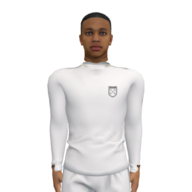
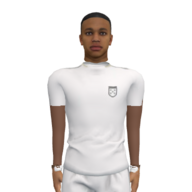
Manga corta por defecto y elección de manga y talla en la Taquilla
- Camisetas en manga corta: brazos generados a la medida de la manga en Dani, Leo y Nico; piel pintada en los personajes de una pieza
- Taquilla: MANGA (corta/larga) y TALLA (S/M/L/XL), guardado en arenamix.fit.v1 y aplicado a tu personaje
- Retratos regenerados

Claude-Session: https://claude.ai/code/session_017Zx2H8d6dd2Bde9S1DSPYC

Changed region(s): [[0.625, 0.5312, 0.75, 0.875], [0.25, 0.5312, 0.375, 0.875]]

diff --git a/arenamix/chars.js b/arenamix/chars.js
@@ -151,6 +151,94 @@
       root.updateMatrixWorld(true);
       prepKit(root, t.box);
     });
+    ['dani', 'leo', 'nico'].forEach(addArms);
+  }
+  /* ---------- sleeves and size (Taquilla) ---------- */
+  var FIT_KEY = 'arenamix.fit.v1', FIT_DEF = { sleeve: 'short', size: 'M' };
+  // how much the shirt and shorts are let out, in metres
+  var SIZES = { S: -0.0025, M: 0, L: 0.012, XL: 0.026 };
+  function fitPref() {
+    try { var v = JSON.parse(localStorage.getItem(FIT_KEY) || 'null'); if (v) return { sleeve: v.sleeve === 'long' ? 'long' : 'short', size: SIZES[v.size] != null ? v.size : 'M' }; } catch (e) {}
+    return { sleeve: FIT_DEF.sleeve, size: FIT_DEF.size };
+  }
+  function setFit(f) { try { localStorage.setItem(FIT_KEY, JSON.stringify(fitPref() && Object.assign(fitPref(), f))); } catch (e) {} }
+  // skin tone of the arms bared by short sleeves
+  var SKIN = { ty: '#F6CBAA', vegas: '#F0C29C', granny: '#BFD3C6', dani: '#C99A7E', leo: '#D9AE93', nico: '#5E3E2E', remy: '#D2A88A' };
+  /* models with nothing under the shirt get arms: a tube along the arm bones, as thick as the sleeve
+     around it, skinned to the shoulder, elbow and wrist */
+  function addArms(id) {
+    var t = tpl[id]; if (!t) return;
+    var shirt = null; t.root.traverse(function (m) { if (m.isSkinnedMesh && /Shirt$/.test(m.name)) shirt = m; });
+    if (!shirt) return;
+    t.root.updateMatrixWorld(true);
+    var by = {}; t.root.traverse(function (b) { if (b.isBone && !by[b.name]) by[b.name] = b; });
+    var sp = []; var pos = shirt.geometry.attributes.position, v = new T.Vector3();
+    for (var i = 0; i < pos.count; i += 1) { v.fromBufferAttribute(pos, i); shirt.boneTransform(i, v); v.applyMatrix4(shirt.matrixWorld); sp.push(v.clone()); }
+    var mat = new T.MeshStandardMaterial({ color: new T.Color(SKIN[id] || '#D9AE93').convertSRGBToLinear(), roughness: 0.62, metalness: 0 });
+    mat.skinning = true;
+    var inv = new T.Matrix4().copy(shirt.matrixWorld).invert(), H = t.box.max.y - t.box.min.y;
+    ['Left', 'Right'].forEach(function (side) {
+      var bA = by['mixamorig' + side + 'Arm'], bF = by['mixamorig' + side + 'ForeArm'], bH = by['mixamorig' + side + 'Hand'];
+      if (!bA || !bF || !bH) return;
+      var pA = new T.Vector3().setFromMatrixPosition(bA.matrixWorld), pF = new T.Vector3().setFromMatrixPosition(bF.matrixWorld), pH = new T.Vector3().setFromMatrixPosition(bH.matrixWorld);
+      var at = function (u) { return u <= 1 ? pA.clone().lerp(pF, u) : pF.clone().lerp(pH, u - 1); };
+      var dirAt = function (u) { return (u <= 1 ? pF.clone().sub(pA) : pH.clone().sub(pF)).normalize(); };
+      // sleeve radius along the arm (bins of u), from the shirt vertices around it
+      var NB = 20, rs = [], i2, b;
+      for (b = 0; b < NB; b++) rs.push([]);
+      sp.forEach(function (q) {
+        var best = null;
+        [[pA, pF, 0], [pF, pH, 1]].forEach(function (sg) {
+          var d = sg[1].clone().sub(sg[0]), L2 = d.lengthSq(), tt = q.clone().sub(sg[0]).dot(d) / L2;
+          if (tt < 0 || tt > 1) return;
+          var dist = q.distanceTo(sg[0].clone().addScaledVector(d, tt));
+          if (!best || dist < best.d) best = { d: dist, u: sg[2] + tt };
+        });
+        if (best && best.d < H * 0.07) rs[Math.min(NB - 1, Math.floor(best.u / 2 * NB))].push(best.d);
+      });
+      var rad = rs.map(function (a) { if (!a.length) return null; a.sort(function (x, y) { return x - y; }); return a[Math.floor(a.length * 0.35)]; });
+      var radAt = function (u) {
+        var k = Math.max(0, Math.min(NB - 1, Math.floor(u / 2 * NB))), r = rad[k];
+        for (var j = 1; r == null && j < NB; j++) r = rad[Math.max(0, k - j)] || rad[Math.min(NB - 1, k + j)];
+        // a little inside the sleeve, tapering to the wrist
+        var lim = H * (u < 1 ? 0.034 - 0.008 * u : 0.026 - 0.008 * (u - 1));
+        return Math.min(r != null ? r * 0.82 : lim, lim);
+      };
+      var RING = 14, us = [], u0 = 0.3, u1 = 1.97;
+      for (var s2 = 0; s2 <= 22; s2++) us.push(u0 + (u1 - u0) * s2 / 22);
+      var P = [], SI = [], SW = [], IDX = [], ref = new T.Vector3(0, 0, 1);
+      var rad0 = us.map(radAt);
+      // smooth the radii
+      var rsm = rad0.map(function (r, k) { return (rad0[Math.max(0, k - 1)] + r * 2 + rad0[Math.min(rad0.length - 1, k + 1)]) / 4; });
+      us.forEach(function (u, k) {
+        var c = at(u), d = dirAt(u), x = new T.Vector3().crossVectors(d, ref); if (x.lengthSq() < 1e-6) x.set(1, 0, 0); x.normalize();
+        var y = new T.Vector3().crossVectors(d, x).normalize();
+        for (var r = 0; r < RING; r++) {
+          var a = r / RING * Math.PI * 2, p2 = c.clone().addScaledVector(x, Math.cos(a) * rsm[k]).addScaledVector(y, Math.sin(a) * rsm[k] * 0.92).applyMatrix4(inv);
+          P.push(p2.x, p2.y, p2.z);
+          // weights: shoulder bone, blended over the elbow, then the forearm (and the hand at the end)
+          var wF = Math.max(0, Math.min(1, (u - 0.85) / 0.3)), wH = Math.max(0, Math.min(1, (u - 1.85) / 0.12));
+          SI.push(0, 1, 2, 0); SW.push(1 - wF, wF * (1 - wH), wF * wH, 0);
+        }
+      });
+      for (var k2 = 0; k2 < us.length - 1; k2++) for (var r2 = 0; r2 < RING; r2++) {
+        var a0 = k2 * RING + r2, a1 = k2 * RING + (r2 + 1) % RING, b0 = a0 + RING, b1 = a1 + RING;
+        IDX.push(a0, b0, a1, a1, b0, b1);
+      }
+      var geo = new T.BufferGeometry();
+      geo.setAttribute('position', new T.Float32BufferAttribute(P, 3));
+      geo.setAttribute('skinIndex', new T.Uint16BufferAttribute(SI, 4));
+      geo.setAttribute('skinWeight', new T.Float32BufferAttribute(SW, 4));
+      geo.setIndex(IDX); geo.computeVertexNormals();
+      // the winding may face inwards depending on the side: flip so normals point out
+      var c0 = at(1), n0 = new T.Vector3().fromBufferAttribute(geo.attributes.normal, 11 * RING), p0 = new T.Vector3().fromBufferAttribute(geo.attributes.position, 11 * RING).applyMatrix4(shirt.matrixWorld);
+      if (n0.transformDirection(shirt.matrixWorld).dot(p0.sub(c0)) < 0) { for (var f = 0; f < IDX.length; f += 3) { var tmp = IDX[f + 1]; IDX[f + 1] = IDX[f + 2]; IDX[f + 2] = tmp; } geo.setIndex(IDX); geo.computeVertexNormals(); }
+      var mesh = new T.SkinnedMesh(geo, mat);
+      mesh.name = side + 'Arm_Body'; mesh.castShadow = true; mesh.frustumCulled = false; mesh.userData.bareArms = true;
+      mesh.position.copy(shirt.position); mesh.quaternion.copy(shirt.quaternion); mesh.scale.copy(shirt.scale);
+      shirt.parent.add(mesh); mesh.updateMatrixWorld(true);
+      mesh.bind(new T.Skeleton([bA, bF, bH]), mesh.matrixWorld.clone());
+    });
   }
   // the cartoon models are one piece: their clothes are painted as a kit when no outfit is given
   var PAINT = { ty: 1, vegas: 1, granny: 1 };
@@ -182,7 +270,19 @@
       if (Array.isArray(mt) || mt.transparent || !mt.map) return;
       var geo = m.geometry, pos = geo.attributes.position, si = geo.attributes.skinIndex, sw = geo.attributes.skinWeight, uv = geo.attributes.uv;
       if (!si || !sw) return;
-      var n = pos.count, kit = new Float32Array(n * 3), names = m.skeleton.bones.map(function (b) { return b.name; });
+      var n = pos.count, kit = new Float32Array(n * 3), arm = new Float32Array(n), names = m.skeleton.bones.map(function (b) { return b.name; });
+      // where each bone sits at rest, for the sleeve coordinate (0 shoulder .. 1 elbow .. 2 wrist)
+      var bwp = {}; m.skeleton.bones.forEach(function (b) { bwp[b.name] = new T.Vector3().setFromMatrixPosition(b.matrixWorld); });
+      var armAt = function (bn, p) {
+        var mm = /^(mixamorig)?(Left|Right)(Arm|ForeArm|Hand)/.exec(bn); if (!mm) return -1;
+        var pre = (mm[1] || '') + mm[2];
+        if (mm[3] !== 'Arm' && mm[3] !== 'ForeArm') return 2;
+        var a = bwp[pre + mm[3]], b = bwp[pre + (mm[3] === 'Arm' ? 'ForeArm' : 'Hand')];
+        if (!a || !b) return mm[3] === 'Arm' ? 0.5 : 1.5;
+        var dx = b.x - a.x, dy = b.y - a.y, dz = b.z - a.z, L2 = dx * dx + dy * dy + dz * dz || 1;
+        var t = Math.max(0, Math.min(1, ((p.x - a.x) * dx + (p.y - a.y) * dy + (p.z - a.z) * dz) / L2));
+        return (mm[3] === 'Arm' ? 0 : 1) + t;
+      };
       // texture pixels, to know each zone's average brightness (the recolour keeps relative shading)
       var px = null, W = 128, Hh = 128;
       try {
@@ -196,6 +296,7 @@
         var z = zoneOf(names[best] || '');
         v.fromBufferAttribute(pos, i).applyMatrix4(m.matrixWorld);
         kit[i * 3] = z; kit[i * 3 + 1] = (v.x - cx) / H; kit[i * 3 + 2] = (v.y - box.min.y) / H;
+        arm[i] = z === 1 ? armAt(names[best] || '', v) : -1;
         if (px && uv && z) {
           var u = uv.getX(i), w2 = uv.getY(i);
           u -= Math.floor(u); w2 -= Math.floor(w2);
@@ -206,6 +307,12 @@
         }
       }
       geo.setAttribute('aKit', new T.Float32BufferAttribute(kit, 3));
+      geo.setAttribute('aArm', new T.Float32BufferAttribute(arm, 1));
+      // model units per metre (the kit is let out or taken in by a few centimetres)
+      var ws = new T.Vector3(); m.getWorldScale(ws);
+      m.userData.unit = (H / HEIGHT) / (ws.x || 1);
+      // a separate shirt (a body under it) is cut short; a one-piece model is painted skin instead
+      m.userData.sleeveCut = /shirt|tops/i.test(m.name) ? 1 : 0;
       var lum = [1, 1, 1, 1, 1].map(function (d, z) { return cnt[z] ? Math.max(0.02, sum[z] / cnt[z]) : 0.2; });
       m.userData.kitLum = [lum[1], lum[2], lum[3], lum[4]];
       m.userData.kitable = true;
@@ -277,22 +384,24 @@
     if (c == null) return new T.Color(fb);
     return (c.isColor ? c.clone() : new T.Color(c)).convertSRGBToLinear();
   }
-  function kitMaterial(base, kit, lum, keepSkin) {
+  function kitMaterial(base, kit, lum, keepSkin, fit, unit, sleeveCut, skin) {
     var m = base.clone();
     var U = {
       uKitA: { value: col(kit.primary, '#ffffff') }, uKitB: { value: col(kit.secondary, '#141B2D') },
       uShorts: { value: col(kit.shorts, '#141B2D') }, uSocks: { value: col(kit.socks, '#ffffff') }, uShoes: { value: col(kit.shoe, '#F2F5FA') },
-      uPat: { value: PAT[kit.pattern] || 0 }, uLum: { value: lum }, uKeepSkin: { value: keepSkin || 0 }
+      uPat: { value: PAT[kit.pattern] || 0 }, uLum: { value: lum }, uKeepSkin: { value: keepSkin || 0 },
+      uPaint: { value: kit.none ? 0 : 1 }, uInflate: { value: (fit && fit.inflate || 0) * (unit || 1) },
+      uSleeve: { value: fit && fit.sleeve === 'long' ? 0 : (sleeveCut ? 1 : 2) }, uSkin: { value: col(skin, '#E8B896') }
     };
     m.onBeforeCompile = function (sh) {
       Object.keys(U).forEach(function (k) { sh.uniforms[k] = U[k]; });
       sh.vertexShader = sh.vertexShader
-        .replace('#include <common>', '#include <common>\nattribute vec3 aKit;\nvarying vec4 vZone;\nvarying vec2 vKitP;')
-        .replace('#include <begin_vertex>', '#include <begin_vertex>\nvZone = vec4(step(0.5, aKit.x) * step(aKit.x, 1.5), step(1.5, aKit.x) * step(aKit.x, 2.5), step(2.5, aKit.x) * step(aKit.x, 3.5), step(3.5, aKit.x));\nvKitP = aKit.yz;');
+        .replace('#include <common>', '#include <common>\nattribute vec3 aKit;\nattribute float aArm;\nvarying vec4 vZone;\nvarying vec2 vKitP;\nvarying float vArm;\nuniform float uInflate;')
+        .replace('#include <begin_vertex>', '#include <begin_vertex>\nvArm = aArm;\ntransformed += objectNormal * uInflate * (step(0.5, aKit.x) * step(aKit.x, 2.5));\nvZone = vec4(step(0.5, aKit.x) * step(aKit.x, 1.5), step(1.5, aKit.x) * step(aKit.x, 2.5), step(2.5, aKit.x) * step(aKit.x, 3.5), step(3.5, aKit.x));\nvKitP = aKit.yz;');
       sh.fragmentShader = sh.fragmentShader
         .replace('#include <common>', ['#include <common>', 'varying vec4 vZone;', 'varying vec2 vKitP;',
           'uniform vec3 uKitA; uniform vec3 uKitB; uniform vec3 uShorts; uniform vec3 uSocks; uniform vec3 uShoes;',
-          'uniform float uPat; uniform vec4 uLum; uniform float uKeepSkin;',
+          'uniform float uPat; uniform vec4 uLum; uniform float uKeepSkin; uniform float uPaint; uniform float uSleeve; uniform vec3 uSkin;', 'varying float vArm;',
           'float kitPattern(vec2 p) {',
           '  if (uPat < 0.5) return 0.0;',
           '  if (uPat < 1.5) return step(0.5, fract(p.x * 14.0 + 0.25));',
@@ -305,6 +414,9 @@
           '  return step(abs(p.y - 0.66), 0.03);',
           '}'].join('\n'))
         .replace('#include <map_fragment>', ['#include <map_fragment>',
+          // short sleeves end halfway down the upper arm
+          'float bare = step(0.5, uSleeve) * step(0.55, vArm) * step(vArm, 1.98);',
+          'if (bare > 0.5 && uSleeve < 1.5) discard;',
           '{',
           '  vec3 c = diffuseColor.rgb, sc = pow(max(c, vec3(0.0)), vec3(1.0 / 2.2));',
           '  float lum = dot(c, vec3(0.2126, 0.7152, 0.0722));',
@@ -314,10 +426,11 @@
           '  vec3 kitC = shirt * vZone.x + uShorts * vZone.y + uSocks * vZone.z + uShoes * vZone.w;',
           '  float w = clamp(vZone.x * (1.0 - skin) + vZone.y + vZone.z + vZone.w, 0.0, 1.0);',
           '  vec3 painted = kitC * clamp(lum / zl, 0.35, 1.6);',
-          '  diffuseColor.rgb = mix(c, painted, w);',
+          '  diffuseColor.rgb = mix(c, painted, w * uPaint);',
+          '  if (bare > 0.5) diffuseColor.rgb = uSkin * clamp(lum / max(zl, 0.0001), 0.55, 1.25);',
           '}'].join('\n'));
     };
-    m.customProgramCacheKey = function () { return 'amkit1'; };
+    m.customProgramCacheKey = function () { return 'amkit2'; };
     return m;
   }
   // the outfit equipped in Taquilla for a sport (null if none saved yet)
@@ -389,7 +502,13 @@
     var kit = o.kit || (o.you && !o.noOutfit ? outfit(o.sport) : null);
     if (!kit && o.shirt != null) kit = { primary: o.shirt, secondary: o.trimCss, pattern: 'solid', shorts: o.shorts, socks: o.socks, shoe: o.boot };
     if (!kit && PAINT[id]) kit = HOME_KIT;
-    if (kit) model.traverse(function (m) { if (m.isSkinnedMesh && m.userData.kitable) m.material = kitMaterial(m.material, kit, new T.Vector4().fromArray(m.userData.kitLum), m.userData.keepSkin); });
+    // sleeves and size: yours from Taquilla, everyone else in short sleeves and their own size
+    var fit = o.fit || ((o.you || o.gear) ? fitPref() : FIT_DEF), fz = SIZES[fit.size] != null ? SIZES[fit.size] : 0;
+    var fk = { sleeve: fit.sleeve, inflate: fz }, short = fit.sleeve !== 'long';
+    model.traverse(function (m) {
+      if (m.isSkinnedMesh && m.userData.kitable) m.material = kitMaterial(m.material, kit || { none: 1 }, new T.Vector4().fromArray(m.userData.kitLum), m.userData.keepSkin, fk, m.userData.unit, m.userData.sleeveCut, SKIN[id]);
+      if (m.userData.bareArms) m.visible = short;
+    });
     var gear = [];
     // the accessories only go on your own character, not on teammates who share the kit
     if (kit && (o.you || o.gear) && !o.noGear) dress(id, kit, g, s, holder.position, function (obj) { gear.push(obj); });
@@ -559,5 +678,5 @@
     return g;
   }
 
-  window.AMChars = { list: LIST, pref: pref, setPref: setPref, load: load, ready: ready, onReady: onReady, make: make, clip: clipInfo, outfit: outfit };
+  window.AMChars = { fitPref: fitPref, setFit: setFit, sizes: Object.keys(SIZES), list: LIST, pref: pref, setPref: setPref, load: load, ready: ready, onReady: onReady, make: make, clip: clipInfo, outfit: outfit };
 })();

diff --git a/arenamix/screens/Taquilla.dc.html b/arenamix/screens/Taquilla.dc.html
@@ -86,6 +86,20 @@ input::placeholder{color:#8686A6}
     </div>
   </div>
 
+  <!-- the fit: sleeves and size -->
+  <div role="group" aria-label="Corte" style="position: absolute; left: 388px; top: 112px; width: 70px; display: flex; flex-direction: column; gap: 5px; padding: 7px 6px; box-sizing: border-box; border-radius: 12px; background: #0B0B14CC; border: 1px solid #2E2E58; z-index: 2">
+    <span style="font-size: 9px; font-weight: 800; letter-spacing: 1.5px; color: #22D3EE; text-align: center">MANGA</span>
+    <sc-for list="{{sleeveBtns}}" as="sb" hint-placeholder-count="2">
+      <button type="button" aria-pressed="{{sb.on}}" onClick="{{sb.pick}}" style="{{sb.style}}">{{sb.label}}</button>
+    </sc-for>
+    <span style="margin-top: 3px; font-size: 9px; font-weight: 800; letter-spacing: 1.5px; color: #22D3EE; text-align: center">TALLA</span>
+    <div style="display: grid; grid-template-columns: 1fr 1fr; gap: 4px">
+      <sc-for list="{{sizeBtns}}" as="zb" hint-placeholder-count="4">
+        <button type="button" aria-pressed="{{zb.on}}" onClick="{{zb.pick}}" style="{{zb.style}}">{{zb.label}}</button>
+      </sc-for>
+    </div>
+  </div>
+
   <!-- the rail: categories, leagues, the clothes on hangers, and the action -->
   <div style="position: absolute; left: 462px; top: 0; right: 0; bottom: 0; border-radius: 24px 0 0 24px; background: linear-gradient(160deg, #191936F2, #0E0E1EF2)"></div>
   <div style="position: absolute; left: 462px; top: 24px; width: 4px; bottom: 24px; border-radius: 2px; background: linear-gradient(180deg, #22D3EE, #7C5CFF); box-shadow: 0 0 12px #22D3EE"></div>
@@ -225,7 +239,7 @@ class Component extends DCLogic {
     if (!w || !h) return;
     if (V.sz !== w + 'x' + h) { V.sz = w + 'x' + h; R.setSize(w, h, false); this.cam.aspect = w / h; this.cam.updateProjectionMatrix(); }
     // rebuild the character when the character or the outfit being looked at changes (kept between visits)
-    const key = this.want.char + '|' + JSON.stringify(this.want.kit);
+    const key = this.want.char + '|' + JSON.stringify(this.want.kit) + '|' + JSON.stringify(A.fitPref ? A.fitPref() : {});
     if (key !== V.modelKey && A.ready()) {
       if (V.model) V.S.remove(V.model);
       V.model = A.make({ char: this.want.char, kit: this.want.kit, noRing: true, gear: true });
@@ -630,7 +644,13 @@ class Component extends DCLogic {
         textStyle: c.id === 'clasico' ? 'font: 800 8px Exo2, sans-serif; color: #F4F4FA;' : 'display: none;'
       };
     });
+    const A2 = window.AMChars, fitNow = A2 && A2.fitPref ? A2.fitPref() : { sleeve: 'short', size: 'M' };
+    const fitBtn = (on) => 'height: 26px; padding: 0; border-radius: 8px; font: 800 11px Exo2, sans-serif; cursor: pointer; ' + (on ? 'background: #22D3EE; color: #0B0B14; border: 0; box-shadow: 0 2px 0 #0E8FA3;' : 'background: #17172A; color: #CACAE0; border: 1px solid #2E2E52;');
+    const setFit = (f) => { if (A2 && A2.setFit) { A2.setFit(f); window.AMSfx && window.AMSfx.tap && window.AMSfx.tap(); this.forceUpdate(); } };
+    const sleeveBtns = [['short', 'CORTA'], ['long', 'LARGA']].map(([id, label]) => ({ label, on: String(fitNow.sleeve === id), style: fitBtn(fitNow.sleeve === id), pick: () => setFit({ sleeve: id }) }));
+    const sizeBtns = (A2 && A2.sizes || ['S', 'M', 'L', 'XL']).map((id) => ({ label: id, on: String(fitNow.size === id), style: fitBtn(fitNow.size === id), pick: () => setFit({ size: id }) }));
     return {
+      sleeveBtns, sizeBtns,
       show3d, show2d: !show3d, charChips, canvasRef: this.canvasRef,
       viewerLabel: 'Tu personaje con la equipación ' + kitItem.name + '. Desliza para girarlo.',
       pDown: (e) => { e.preventDefault(); try { e.currentTarget.setPointerCapture(e.pointerId); } catch (er) {} this.drag = { id: e.pointerId, x: e.clientX, t: performance.now() }; this.spin = 0; },

diff --git a/arenamix/i18n-en.js b/arenamix/i18n-en.js
@@ -425,7 +425,7 @@ window.AM_I18N_EN = {
   'VESTUARIO · FÚTBOL': 'LOCKER ROOM · FOOTBALL', 'EQUIPOS': 'KITS', 'CABEZA': 'HEAD', 'CARA': 'FACE', 'CALZADO': 'BOOTS', 'EQUIPACIÓN': 'KIT', 'ACCESORIO': 'ACCESSORY', 'COFRE': 'CHEST',
   'Liga España': 'Spanish League', 'Liga Inglaterra': 'English League', 'Liga Italia': 'Italian League', 'Liga Alemania': 'German League', 'Liga Francia': 'French League',
   'Liga Turquía': 'Turkish League', 'Liga Japón': 'Japanese League', 'Liga Brasil': 'Brazilian League', 'Liga Polonia': 'Polish League', 'Liga Europa': 'European League', 'Liga Norteamérica': 'North American League',
-  'Equipado': 'Equipped', 'En propiedad': 'Owned', 'Lo llevas puesto': 'You’re wearing it', 'Puesto': 'On', 'EQUIPAR': 'EQUIP', 'PROBÁNDOTELO': 'TRYING IT ON', 'CÓMO CONSEGUIRLO': 'HOW TO GET IT',
+  'Equipado': 'Equipped', 'En propiedad': 'Owned', 'Lo llevas puesto': 'You’re wearing it', 'Puesto': 'On', 'EQUIPAR': 'EQUIP', 'PROBÁNDOTELO': 'TRYING IT ON', 'MANGA': 'SLEEVES', 'CORTA': 'SHORT', 'LARGA': 'LONG', 'TALLA': 'SIZE', 'CÓMO CONSEGUIRLO': 'HOW TO GET IT',
   'DESLIZA PARA GIRAR': 'SWIPE TO TURN', 'Clásico': 'Classic', 'En tu taquilla': 'In your locker', 'Disponible por VCD': 'Available for VCD', 'Objeto premium': 'Premium item', 'Te faltan VCD': 'Not enough VCD',
   'Pase nv. #': 'Pass lv. #', 'Premium nv. #': 'Premium lv. #',
   // cosmetics

diff --git a/arenamix/sw.js b/arenamix/sw.js
@@ -1,5 +1,5 @@
 /* Network-first so every update you publish reaches the phone; cache is the offline fallback. */
-const CACHE = 'arenamix-v177';
+const CACHE = 'arenamix-v178';
 const CORE = ['./', 'index.html', 'app.js', 'manifest.webmanifest', 'vendor/preact.min.js', 'vendor/three.min.js', 'vendor/GLTFLoader.js', 'vendor/SkeletonUtils.js', 'chars.js', 'gear.js', 'posters.js', 'hero.js', 'progress.js', 'results.js', 'sfx.js', 'online.js', 'social.js', 'vendor/peerjs.min.js', 'grass.js', 'sky.js', 'ball.js', 'vendor/RGBELoader.js', 'stadium.js', 'music.js', 'ui-fx.js', 'juice.js', 'i18n.js', 'i18n-en.js', 'assets/stadium/stadium.glb', 'assets/stadium/seats.json', 'assets/stadium/goal.glb', 'assets/sky/stadium_bg.jpg', 'assets/sky/stadium_env.hdr', 'assets/grass/color.jpg', 'assets/grass/normal.jpg', 'assets/grass/rough.jpg', 'assets/chars/ty.glb', 'assets/chars/vegas.glb', 'assets/chars/granny.glb', 'assets/chars/anims.json', 'icons/icon-192.png', 'icons/loading-bg.jpg', 'assets/lobby_bg.jpg', 'assets/grain.png', 'vendor/fonts/luckiestguy-latin.woff2', 'vendor/fonts/lilitaone-latin.woff2', 'vendor/fonts/rajdhani-500.woff2', 'vendor/fonts/rajdhani-600.woff2', 'vendor/fonts/rajdhani-700.woff2'];
 
 self.addEventListener('install', (e) => {

diff --git a/arenamix/index.html b/arenamix/index.html
@@ -57,17 +57,17 @@
   <svg width="64" height="64" viewBox="0 0 24 24" fill="none" stroke="#22D3EE" stroke-width="1.8" stroke-linecap="round"><rect x="7" y="2" width="10" height="20" rx="2"/><path d="M11 18h2"/></svg>
   Gira el móvil para jugar en horizontal
 </div>
-<script src="i18n-en.js?v=15"></script>
+<script src="i18n-en.js?v=16"></script>
 <script src="i18n.js?v=2"></script>
 <script src="vendor/preact.min.js"></script>
 <script src="vendor/three.min.js"></script>
 <script src="vendor/GLTFLoader.js"></script>
 <script src="vendor/SkeletonUtils.js"></script>
 <script src="vendor/RGBELoader.js"></script>
-<script src="chars.js?v=51"></script>
+<script src="chars.js?v=52"></script>
 <script src="gear.js?v=10"></script>
 <script src="posters.js?v=4"></script>
-<script src="hero.js?v=2"></script>
+<script src="hero.js?v=3"></script>
 <script src="progress.js?v=11"></script>
 <script src="results.js?v=7"></script>
 <script src="sfx.js?v=1"></script>

diff --git a/arenamix/hero.js b/arenamix/hero.js
@@ -49,7 +49,7 @@
     bst = null;
     return true;
   }
-  function heroKey() { var A = window.AMChars; return A ? A.pref() + '|' + JSON.stringify(A.outfit('futbol') || {}) : ''; }
+  function heroKey() { var A = window.AMChars; return A ? A.pref() + '|' + JSON.stringify(A.outfit('futbol') || {}) + '|' + JSON.stringify(A.fitPref ? A.fitPref() : {}) : ''; }
   // your character for the home screen (kept, rebuilt only when you change character or kit)
   function prepare() {
     var V = viewer(), A = window.AMChars;
